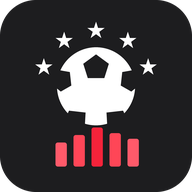
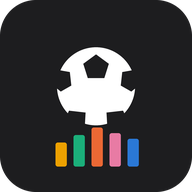
feat(crossleague): mark is the Hub badge with league-hue bars
The Hub already draws exactly five analytics bars, so the five leagues
need no new element — the bars take the league hues in launch order and
colour alone does the differentiating, in the same palette every chart on
the site uses.

Drops the arc of stars. Stars over a crest already mean titles won, which
is a claim about trophies on a site about analytics, and a two-row mark
stops reading at favicon size once it becomes three. Checked against
40/24/16px renders before choosing.

diff --git a/dashboards/crossleague/scripts/render_logo.py b/dashboards/crossleague/scripts/render_logo.py
@@ -9,10 +9,13 @@ what it writes.
     python3 scripts/render_logo.py
 
 The mark is the Krogvad Analytics Hub badge — near-black disc, white football,
-five red analytics bars — with an arc of five white stars over the ball, one
-per league.
+five analytics bars — with the bars carrying the five league hues instead of
+the Hub's reds. Nothing is added: the Hub already draws exactly five bars, so
+colour alone does the differentiating, in the same palette every chart on the
+site uses. An earlier attempt hung a third row on the badge, an arc of stars.
+Two problems killed it — stars over a crest already mean titles won, and a
+two-row mark stops reading at favicon size once it becomes three.
 """
-import math
 import os
 
 from PIL import Image, ImageDraw
@@ -22,8 +25,14 @@ OUT = os.path.join(os.path.dirname(os.path.dirname(os.path.abspath(__file__))), 
 # ── palette ─────────────────────────────────────────────────────────────────
 INK = (0x1D, 0x1D, 0x1F)          # near-black badge, straight from the Hub
 WHITE = (0xFF, 0xFF, 0xFF)
-REDS = [(0xFF, 0x5A, 0x6A), (0xFF, 0x46, 0x57), (0xF5, 0x23, 0x3A),
-        (0xFF, 0x46, 0x57), (0xFF, 0x5A, 0x6A)]
+
+# One bar per league, left to right in launch order — the same order and the
+# same hues as `leagues` in components/navItems.js. Keep the two in step.
+BAR_HUES = [(0xED, 0xA1, 0x00),   # DEN  Superliga
+            (0x1B, 0xAF, 0x7A),   # SCO  Premiership
+            (0xEB, 0x68, 0x34),   # MEX  Liga MX
+            (0xE8, 0x7B, 0xA4),   # TUR  Süper Lig
+            (0x2A, 0x78, 0xD6)]   # ESP  La Liga
 
 # ── geometry, in the 512x512 viewBox every asset shares ─────────────────────
 # Ball, patches and bars are lifted verbatim from the Hub's icon.svg.
@@ -36,30 +45,6 @@ PATCHES = [[(256, 145), (290, 170), (278, 208), (234, 208), (222, 170)],
 BARS = [(148, 380, 30, 64), (196, 360, 30, 84), (244, 340, 30, 104),
         (292, 355, 30, 89), (340, 370, 30, 74)]
 
-# Five stars on an arc over the ball — struck from the ball's own centre, so
-# the arc stays concentric with it however the ball moves. White, matching the
-# ball rather than the bars: on the near-black disc the stars then read as one
-# object with the ball, and the red is left to mean "analytics" alone.
-STAR_COUNT = 5            # one per league
-STAR_FILL = WHITE
-STAR_ARC_R = 148.0
-STAR_A0, STAR_A1 = -160.0, -20.0
-STAR_R = 24.0
-
-
-def star_centres():
-    n = STAR_COUNT
-    return [(BALL[0] + STAR_ARC_R * math.cos(math.radians(a)),
-             BALL[1] + STAR_ARC_R * math.sin(math.radians(a)))
-            for a in (STAR_A0 + (STAR_A1 - STAR_A0) * i / (n - 1) for i in range(n))]
-
-
-def star_points(cx, cy, r):
-    """Five-pointed star, one point up."""
-    return [(cx + (r if k % 2 == 0 else r * 0.382) * math.cos(math.radians(-90 + k * 36)),
-             cy + (r if k % 2 == 0 else r * 0.382) * math.sin(math.radians(-90 + k * 36)))
-            for k in range(10)]
-
 
 def hexof(c):
     return "#%02X%02X%02X" % tuple(c[:3])
@@ -67,38 +52,34 @@ def hexof(c):
 
 # ── SVG ─────────────────────────────────────────────────────────────────────
 def mark_body(indent="  "):
-    """Everything inside the badge: stars, ball, bars."""
+    """Everything inside the badge: ball, then bars."""
     bx, by, br = BALL
-    L = []
-    for cx, cy in star_centres():
-        pts = " ".join(f"{x:.1f},{y:.1f}" for x, y in star_points(cx, cy, STAR_R))
-        L.append(f'{indent}<polygon points="{pts}" fill="{hexof(STAR_FILL)}"/>')
-    L.append(f'{indent}<circle cx="{bx:.0f}" cy="{by:.0f}" r="{br:.0f}" fill="{hexof(WHITE)}"/>')
-    L.append(f'{indent}<g clip-path="url(#ball)">')
+    L = [f'{indent}<circle cx="{bx:.0f}" cy="{by:.0f}" r="{br:.0f}" fill="{hexof(WHITE)}"/>',
+         f'{indent}<g clip-path="url(#ball)">']
     for p in PATCHES:
         pts = " ".join(f"{x},{y}" for x, y in p)
         L.append(f'{indent}  <polygon points="{pts}" fill="{hexof(INK)}"/>')
     L.append(f'{indent}</g>')
     L.append(f'{indent}<circle cx="{bx:.0f}" cy="{by:.0f}" r="{br:.0f}" fill="none" '
              f'stroke="{hexof(INK)}" stroke-width="6"/>')
-    for (x, y, w, h), col in zip(BARS, REDS):
+    for (x, y, w, h), col in zip(BARS, BAR_HUES):
         L.append(f'{indent}<rect x="{x}" y="{y}" width="{w}" height="{h}" rx="6" '
                  f'fill="{hexof(col)}"/>')
     return L
 
 
 DEFS = ['  <defs>',
-        f'    <clipPath id="ball"><circle cx="{BALL[0]:.0f}" cy="{BALL[1]:.0f}" r="{BALL[2]:.0f}"/></clipPath>',
+        f'    <clipPath id="ball"><circle cx="{BALL[0]:.0f}" cy="{BALL[1]:.0f}" '
+        f'r="{BALL[2]:.0f}"/></clipPath>',
         '  </defs>']
+
+CIRCLE_SHELL = [f'  <circle cx="256" cy="256" r="256" fill="{hexof(INK)}"/>']
+TILE_SHELL = [f'  <rect width="512" height="512" rx="96" fill="{hexof(INK)}"/>']
 
 
 def build_svg(shell, indent="  "):
     return "\n".join(['<svg xmlns="http://www.w3.org/2000/svg" viewBox="0 0 512 512">']
                      + DEFS + shell + mark_body(indent) + ['</svg>', ''])
-
-
-CIRCLE_SHELL = [f'  <circle cx="256" cy="256" r="256" fill="{hexof(INK)}"/>']
-TILE_SHELL = [f'  <rect width="512" height="512" rx="96" fill="{hexof(INK)}"/>']
 
 
 def write_svgs():
@@ -136,10 +117,6 @@ def draw_mark(n, tile=False):
     else:
         d.ellipse([0, 0, n - 1, n - 1], fill=INK + (255,))
 
-    for cx, cy in star_centres():
-        d.polygon([(sc(x), sc(y)) for x, y in star_points(cx, cy, STAR_R)],
-                  fill=STAR_FILL + (255,))
-
     bx, by, br = BALL
     box = [sc(bx - br), sc(by - br), sc(bx + br), sc(by + br)]
     d.ellipse(box, fill=WHITE + (255,))
@@ -155,7 +132,7 @@ def draw_mark(n, tile=False):
 
     d = ImageDraw.Draw(img)
     d.ellipse(box, outline=INK + (255,), width=max(1, int(round(6 * s))))
-    for (x, y, w, h), col in zip(BARS, REDS):
+    for (x, y, w, h), col in zip(BARS, BAR_HUES):
         d.rounded_rectangle([sc(x), sc(y), sc(x + w), sc(y + h)], radius=sc(6), fill=col + (255,))
     return img
 
